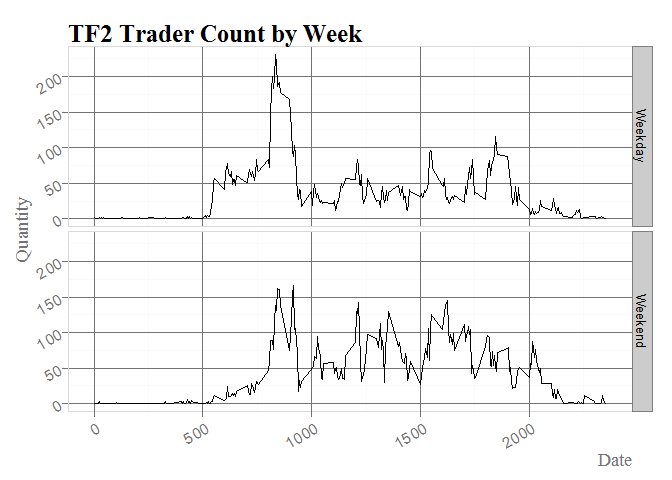
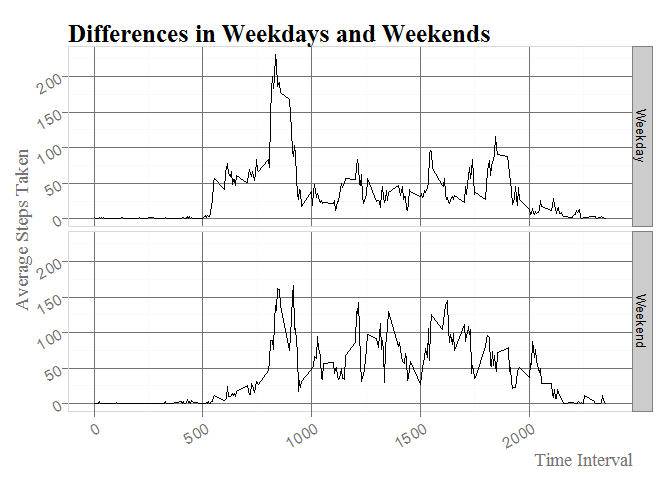
Commit 2, fix axis labels

Changed region(s): [[0.0938, 0.0312, 0.75, 0.0938], [0.0, 0.3125, 0.0625, 0.6562], [0.7812, 0.9375, 0.9375, 0.9688]]

diff --git a/PA1_template.html b/PA1_template.html
@@ -162,9 +162,9 @@ p1 &lt;- ggplot(df.plot, aes(x=interval, y = steps)) +
   facet_grid(Weekday~.) +
   geom_line(size=.5) + 
   theme_bw() +
-  xlab(&quot;Date&quot;) +
-  ylab(&quot;Quantity&quot;) + 
-  ggtitle(&quot;TF2 Trader Count by Week&quot;) + 
+  xlab(&quot;Time Interval&quot;) +
+  ylab(&quot;Average Steps Taken&quot;) + 
+  ggtitle(&quot;Differences in Weekdays and Weekends&quot;) + 
   theme(plot.title = element_text(lineheight=1, hjust = 0, family = &quot;serif&quot;, face=&quot;bold&quot;, size = 19),
         legend.position=&quot;top&quot;,
         plot.title = element_text(size = rel(.5), color = &quot;grey45&quot;,, family = &quot;serif&quot;),
@@ -176,7 +176,7 @@ p1 &lt;- ggplot(df.plot, aes(x=interval, y = steps)) +
         panel.border = element_rect(color = &quot;grey85&quot;),
         panel.grid.major = element_line(colour = &quot;grey45&quot;))
 p1</code></pre>
[2 lines of base64/hex data omitted]
 </div>
 
 

diff --git a/PA1_template.md b/PA1_template.md
@@ -159,9 +159,9 @@ p1 <- ggplot(df.plot, aes(x=interval, y = steps)) +
   facet_grid(Weekday~.) +
   geom_line(size=.5) + 
   theme_bw() +
-  xlab("Date") +
-  ylab("Quantity") + 
-  ggtitle("TF2 Trader Count by Week") + 
+  xlab("Time Interval") +
+  ylab("Average Steps Taken") + 
+  ggtitle("Differences in Weekdays and Weekends") + 
   theme(plot.title = element_text(lineheight=1, hjust = 0, family = "serif", face="bold", size = 19),
         legend.position="top",
         plot.title = element_text(size = rel(.5), color = "grey45",, family = "serif"),
